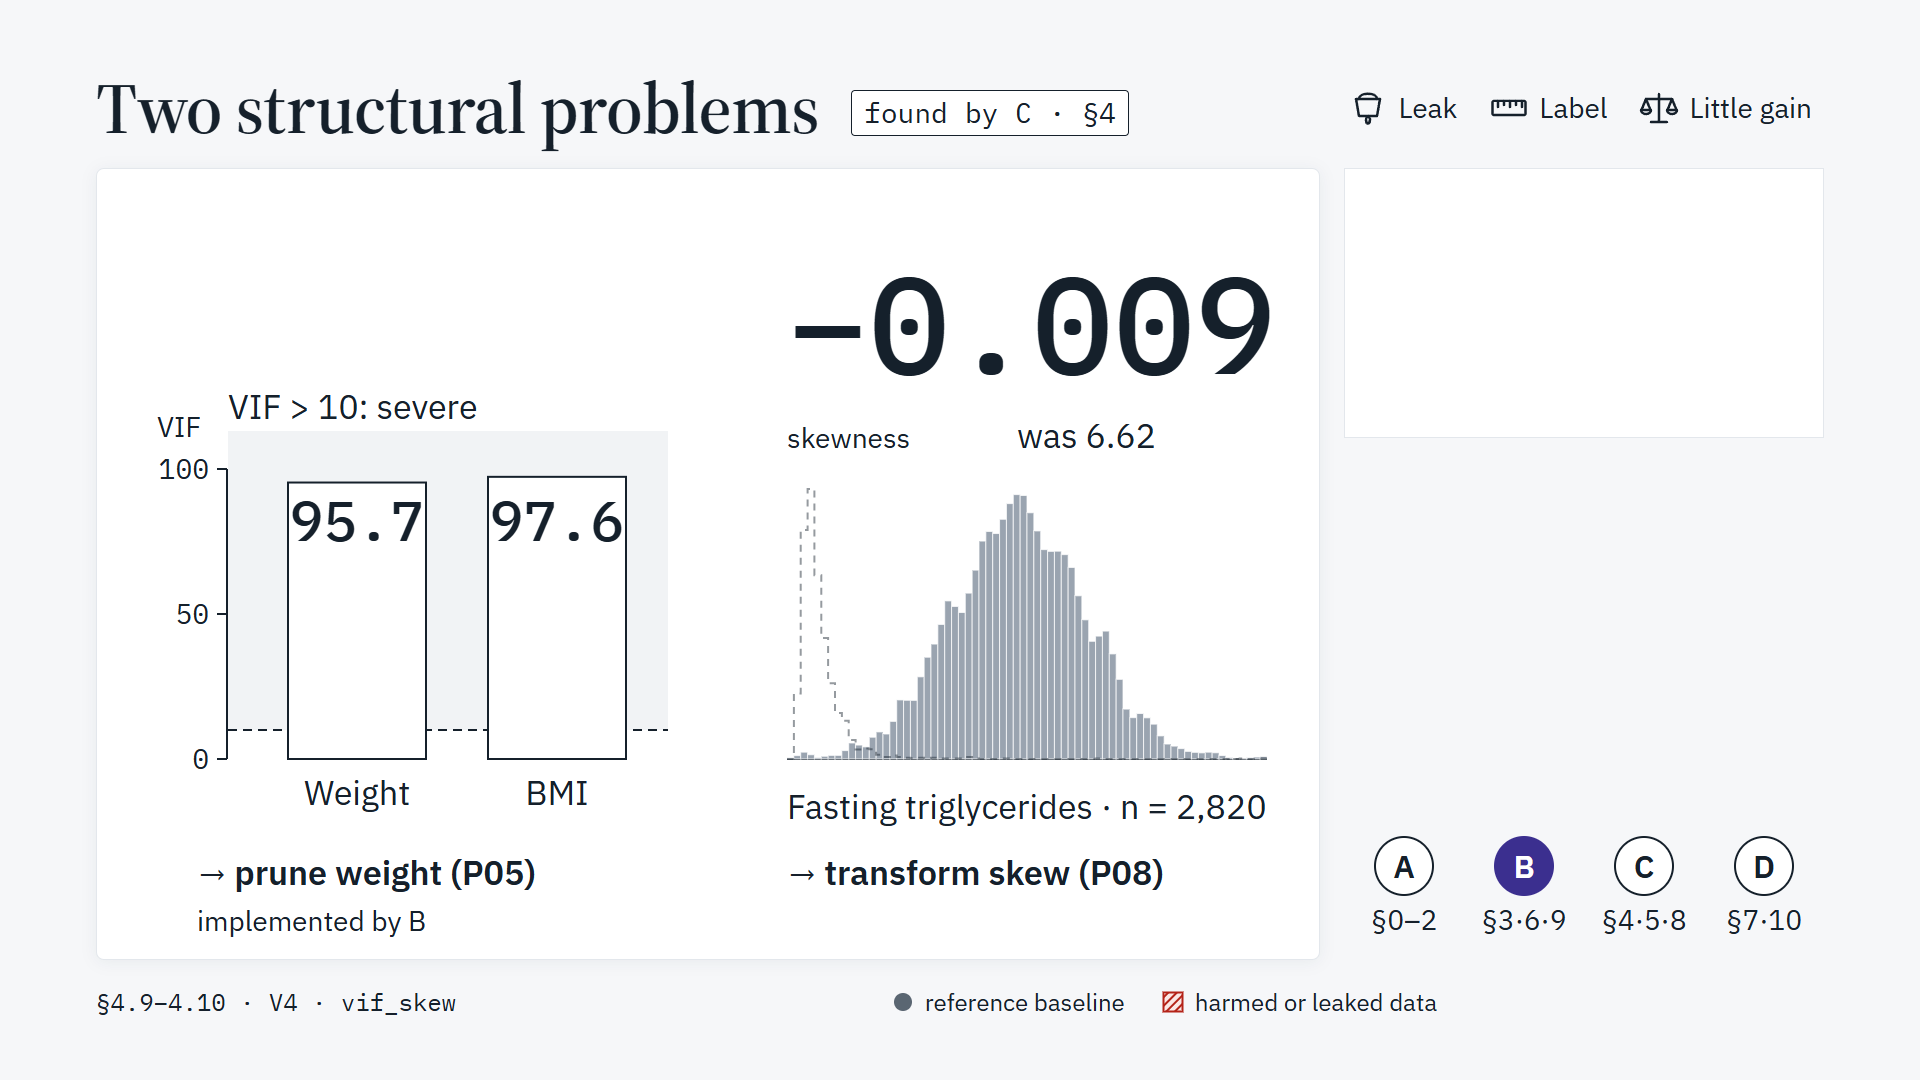
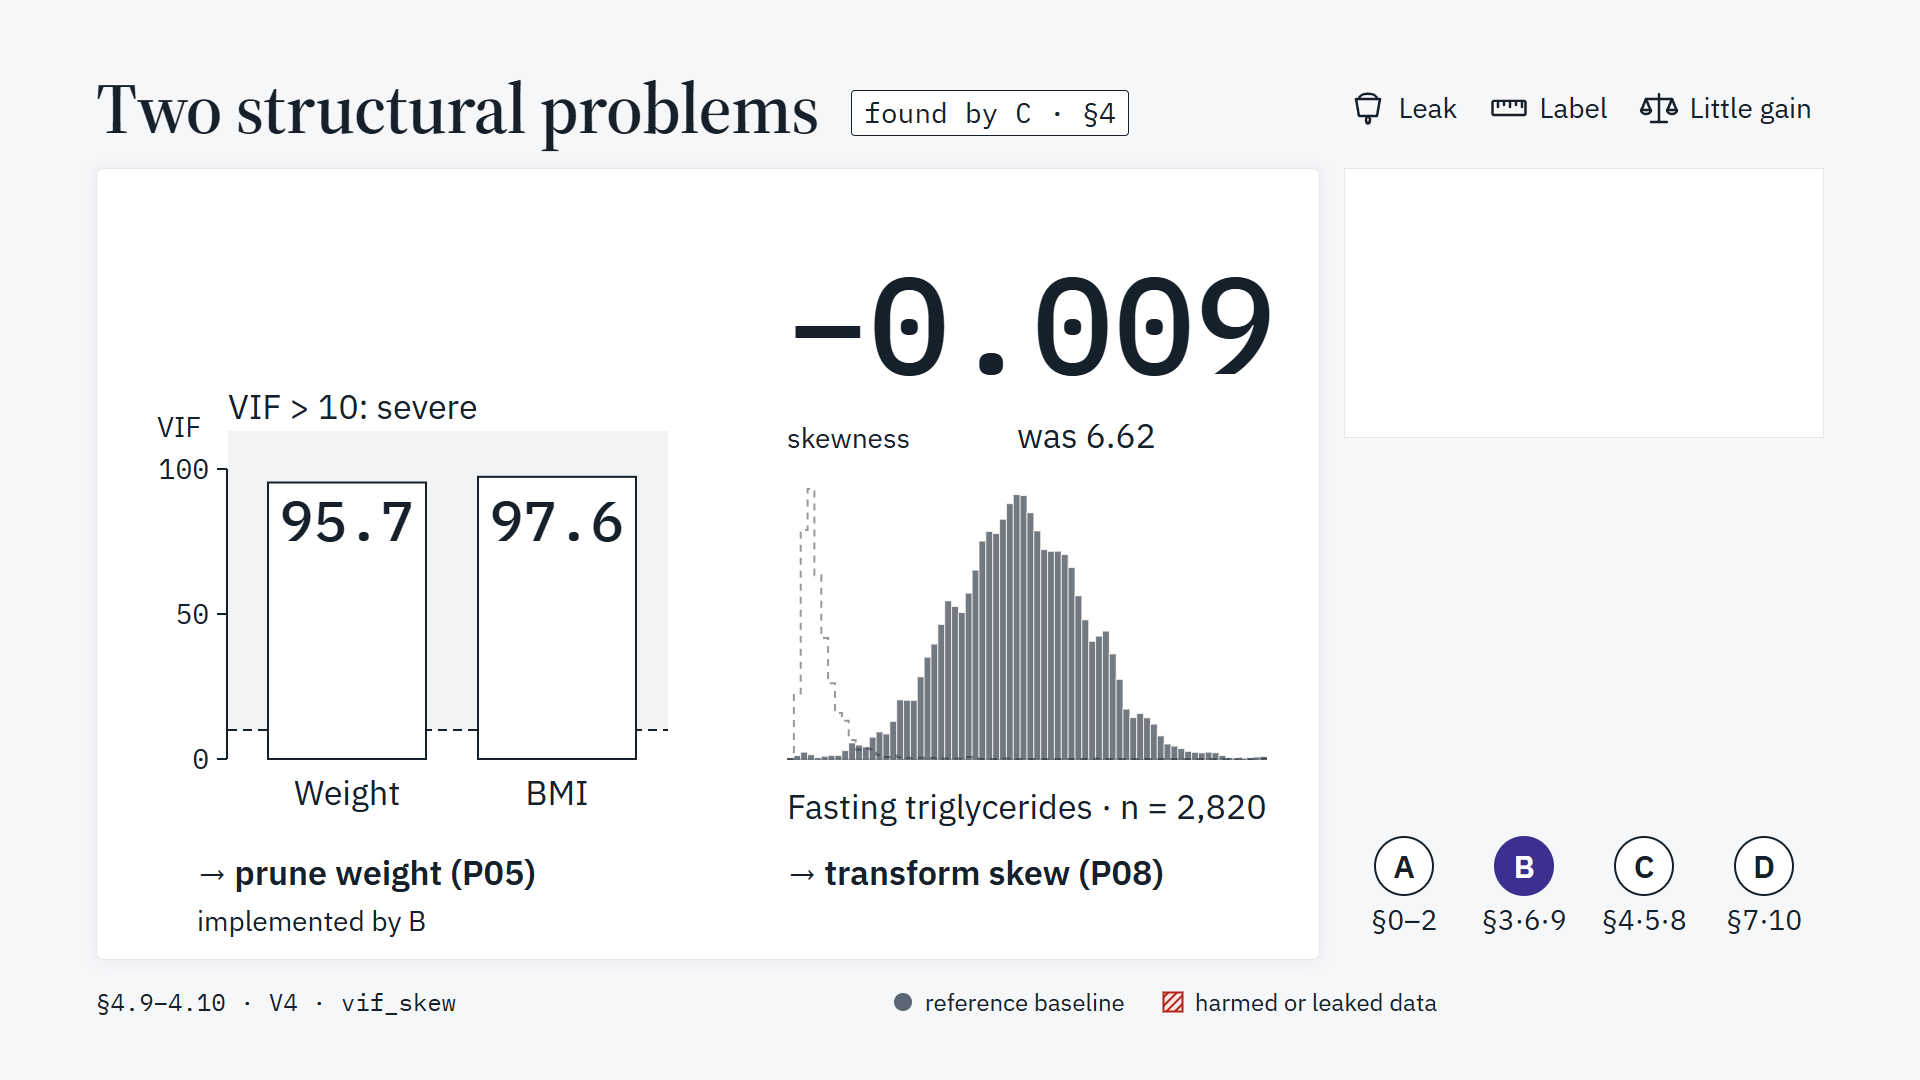
fix(video): scene 13 S lane lights P01-P13 (P14 tested separately); release scene 10 focus; scene 11 ink histogram and VIF padding; scene 16 'both' label readable

Changed region(s): [[0.4375, 0.4583, 0.625, 0.7028], [0.125, 0.4583, 0.2188, 0.5194], [0.1562, 0.7028, 0.2188, 0.7639]]

diff --git a/video/scenes/s13_three_versions.html b/video/scenes/s13_three_versions.html
@@ -14,7 +14,7 @@
    Speaker B. One relation: Naive (M0) uses every column, Minimal (M1) adds only the availability rule P03, Systematic (S) switches
    on all steps; the same simple model is fitted on all three.
    Numbers: video/data/arms.json (88 / 46 / 42 columns; groups.toggles = which steps each version switches on).
-   Arm S switches on P01-P13; P14 is a separate arm in S6 (arms.json notes), while the storyboard lights all fourteen cells. */
+   Arm S switches on P01-P13 only; P14 (WHtR) is a separate arm (S + WHtR), so its cell stays empty with the label "tested separately". */
 const K = Kit;
 
 // Cues in scene seconds at ~134 wpm from the §4 narration; replace with the marks on B's take.
@@ -25,10 +25,11 @@ const CUES = {
   m1: 5.4,         // "Minimal, M1: naive plus only"          grey lane
   m1p: 7.6,        // "the rule that bars post-diagnosis"     P03 lit
   m1n: 9.4,        // 46 columns
-  s: 10.4,         // "Systematic, S: all fourteen steps"     all cells teal
-  sn: 11.9,        // 42 columns
-  merge: 12.7,     // "One simple logistic regression for all three,"  connectors + box
-  lock: 15.0,      // "hypotheses locked first"               padlock
+  s: 10.0,         // "Systematic, S: all steps"              13 cells teal (P01-P13)
+  sn: 11.4,        // 42 columns
+  sep: 12.4,       // "but one, which we test separately."    P14 stays empty, muted label
+  merge: 14.2,     // "One simple logistic regression for all three,"  connectors + box
+  lock: 16.2,      // "hypotheses locked first"               padlock
 };
 
 K.createScene({
@@ -70,12 +71,17 @@ K.createScene({
       parts.cells = [];
       for (let i = 0; i < nCells; i++) {
         const id = 'P' + String(i + 1).padStart(2, '0');
-        const lit = ln.on.includes(id) || (ln.key === 'S' && id === 'P14');       // S: the storyboard lights all fourteen
+        const lit = ln.on.includes(id);                 // toggles from arms.json: S = P01-P13
         const r = K.svg('rect', { x: cx0 + i * step, y: y + 35, width: cell, height: cell, fill: '#fff', stroke: ln.style === 'leak' ? 'none' : col, 'stroke-width': 2.5 }, parts.body);
         parts.cells.push({ r, lit, id, x: cx0 + i * step, y: y + 34 });
       }
       if (ln.style === 'leak') parts.every = K.text(parts.body, { x: cx0 + 4, y: y + 56, text: 'every column', cls: 'kit-t-note' });
       if (ln.key === 'M1') { const c = parts.cells.find((q) => q.lit); parts.p03 = K.text(parts.body, { x: c.x + cell / 2, y: y + 28, text: c.id, anchor: 'middle', cls: 'kit-t-min' }); parts.p03.style.fontFamily = 'var(--font-mono)'; }
+      if (ln.key === 'S') {   // P14 stays unlit: muted label under the last cell
+        const c14 = parts.cells[nCells - 1];
+        parts.sep = K.text(parts.body, { x: c14.x + cell, y: c14.y + cell + 38, text: 'tested separately', anchor: 'end', cls: 'kit-t-min' });
+        parts.sep.style.fill = '#5A6672';
+      }
       parts.count = K.text(g, { x: cx0 + 14 * step + 20, y: y + 56, text: K.disp(data, ln.n) + ' columns', cls: 'kit-t-note', weight: 600 });
       // connector to the shared box
       parts.conn = K.svg('line', { x1: 914, x2: 936, y1: y + 46, y2: y + 46, stroke: K.C.ink, 'stroke-width': 3 }, g);
@@ -109,6 +115,7 @@ K.createScene({
       if (P.every) K.op(P.every, K.appear(t, d.show));
       if (P.p03) K.op(P.p03, K.appear(t, d.lit));
       K.op(P.count, K.appear(t, d.num));
+      if (P.sep) K.op(P.sep, K.appear(t, c.sep));
       K.op(P.conn, K.appear(t, c.merge));
     });
     K.op(S.bar, K.appear(t, c.merge)); K.op(S.box, K.appear(t, c.merge));

diff --git a/video/scenes/s10_outliers_kept.html b/video/scenes/s10_outliers_kept.html
@@ -25,6 +25,7 @@ const CUES = {
   flag: 8.0,         // "that flags 542 adults"                                      M3 on the flagged values, 542, one dot per value
   diabetic: 9.9,     // "and 519 of them have diabetes"                              M10: 519 dots turn solid
   del: 11.6,         // "Those are not errors. They are the disease."                "delete?" label
+  release: 13.4,     // body bars return to 100 %; the flagged bars keep their outline
   steps: 15.0,       // "We flagged them, checked them,"                              M12 dissolve into Flag -> Review -> Keep
   keep: 17.6,        // "and kept every one"                                          ink check on Keep
   title: 8.0,
@@ -57,7 +58,7 @@ K.createScene({
     S.bars = K.svg('g', {}, fig);
     S.rects = H.counts.map((cn, i) => {
       const mid = (H.edges[i] + H.edges[i + 1]) / 2, flag = mid > fence.value || mid < lowF;
-      const r = K.svg('rect', { fill: '#9AA4B0', stroke: '#fff', 'stroke-width': 1 }, S.bars);
+      const r = K.svg('rect', { fill: K.C.ink, 'fill-opacity': 0.55, stroke: '#fff', 'stroke-width': 1 }, S.bars);
       return { r, i, cn, flag, x0: x(H.edges[i]), w: x(H.edges[i + 1]) - x(H.edges[i]) };
     });
     // 2 px ink outline on the flagged bars (drawn as their own layer so the focus can fade it in)
@@ -108,7 +109,7 @@ K.createScene({
     const S = ctx.S, c = ctx.cues, y = S.y;
     S.axis.update(K.M1_axisDraw(t, c.axis, { nTicks: 7 }));
     const grow = K.M2_barGrow(t, c.bars);
-    const f = K.M3_focus(t, c.flag);
+    const f = K.M3_focus(t, c.flag, c.release), fo = K.M3_focus(t, c.flag);   // fo: the outline never releases
     S.rects.forEach((b) => {
       const h = (y(0) - y(b.cn)) * grow;
       b.r.setAttribute('x', b.x0 + 0.5); b.r.setAttribute('width', Math.max(0, b.w - 1)); b.r.setAttribute('y', y(0) - h); b.r.setAttribute('height', h);
@@ -116,7 +117,7 @@ K.createScene({
       if (b.o) { b.o.setAttribute('x', b.x0 + 0.5); b.o.setAttribute('width', Math.max(0, b.w - 1)); b.o.setAttribute('y', y(0) - h - 1); b.o.setAttribute('height', h + 1); }
     });
     K.op(S.bars, grow > 0 ? 1 : 0);
-    K.op(S.flagOutline, f.outline);
+    K.op(S.flagOutline, fo.outline);
     // fence + arrow (M11), lower fence appears with it
     K.op(S.fences, K.appear(t, c.fence));
     S.arrow.update(K.M11_arrow(t, c.fence + 0.2));

diff --git a/video/scenes/s11_redundancy_skew.html b/video/scenes/s11_redundancy_skew.html
@@ -59,11 +59,11 @@ K.createScene({
     K.svg('rect', { x: 131, y: 262, width: 440, height: y(thr) - 262, fill: K.C.band }, S.band);
     K.svg('line', { x1: 131, x2: 571, y1: y(thr), y2: y(thr), stroke: K.C.ink, 'stroke-width': 2, 'stroke-dasharray': '9 6' }, S.band);
     K.text(S.band, { x: 131, y: 250, text: 'VIF > ' + K.disp(data, 'vif_threshold') + ': severe', cls: 'kit-t-note' });
-    S.vif = [['vif_weight', 190, 'Weight'], ['vif_bmi', 390, 'BMI']].map(([id, bx, name]) => {
+    S.vif = [['vif_weight', 170, 'Weight'], ['vif_bmi', 380, 'BMI']].map(([id, bx, name]) => {
       const it = K.item(data, id);
-      const bar = K.bar(fig, { scale: y, base: 0, x: bx, width: 140, styles: ['ink'] });
-      const lab = K.text(fig, { x: bx + 70, y: 636, text: name, anchor: 'middle', cls: 'kit-t-note' });
-      const num = K.text(fig, { x: bx + 70, y: 372, text: it.display, anchor: 'middle', cls: 'kit-t-second' });
+      const bar = K.bar(fig, { scale: y, base: 0, x: bx, width: 160, styles: ['ink'] });
+      const lab = K.text(fig, { x: bx + 80, y: 636, text: name, anchor: 'middle', cls: 'kit-t-note' });
+      const num = K.text(fig, { x: bx + 80, y: 372, text: it.display, anchor: 'middle', cls: 'kit-t-second' });
       return { it, bar, num, lab };
     });
 
@@ -81,7 +81,7 @@ K.createScene({
     S.N = N; S.rawH = rawH; S.yjH = yjH; S.box = { x0: bx0, w: bw, y: by, h: bh };
     S.hist = K.svg('g', {}, fig);
     K.svg('line', { x1: bx0, x2: bx0 + bw, y1: by, y2: by, stroke: K.C.ink, 'stroke-width': 2 }, S.hist);
-    S.hrects = rawH.map(() => K.svg('rect', { fill: FILL, stroke: '#fff', 'stroke-width': 0.6 }, S.hist));
+    S.hrects = rawH.map(() => K.svg('rect', { fill: K.C.ink, 'fill-opacity': 0.6, stroke: '#fff', 'stroke-width': 0.6 }, S.hist));
     // dashed ghost of the raw shape (stays in the last frame so the contrast survives)
     const gp = rawH.map((h, i) => `${i ? 'L' : 'M'}${(bx0 + (i / N) * bw).toFixed(1)} ${(by - h * bh).toFixed(1)} L${(bx0 + ((i + 1) / N) * bw).toFixed(1)} ${(by - h * bh).toFixed(1)}`).join(' ');
     S.ghost = K.svg('path', { d: gp, fill: 'none', stroke: K.C.ink, 'stroke-width': 2, 'stroke-dasharray': '7 6' }, fig);

diff --git a/video/scenes/s16_label_trap.html b/video/scenes/s16_label_trap.html
@@ -92,7 +92,8 @@ Kit.createScene({
     const stack = (g, x, anchor, l1, l2) => { K.text(g, { x, y: V.y - V.rL - 58, text: l1, cls: 'kit-t-min', anchor }); K.text(g, { x, y: V.y - V.rL - 20, text: l2, cls: 'kit-t-min', anchor, weight: 600 }); };
     stack(S.labL, V.bbox.x0 - 10, 'start', 'Told by a doctor', nSelf.display);
     stack(S.labR, V.bbox.x1 + 10, 'end', 'HbA1c ≥ 6.5 %', nA1c.display);
-    S.labBoth = halo(K.text(S.labs, { x: V.centres.both[0], y: V.centres.both[1] + 10, text: 'both', anchor: 'middle', cls: 'kit-t-min', weight: 600 }));
+    S.labBoth = halo(K.text(S.labs, { x: V.centres.both[0], y: V.centres.both[1] + 10, text: 'both', anchor: 'middle', cls: 'kit-t-note', weight: 600 }));
+    S.labBoth.style.strokeWidth = '12px';
     // ---------- 3 callout 250 of 819, ruler icon (the Label mark)
     S.c250 = K.svg('g', {}, fig);
     S.n250 = K.callout(S.c250, { x: 48, y: 700, size: 'main', label: 'of ' + nSelf.display + ' self-reported' });
@@ -133,7 +134,7 @@ Kit.createScene({
     const rest = f.others;
     K.op(S.gBoth, dotsIn * rest); K.op(S.gA1c, dotsIn * rest);
     K.op(S.gSelf, dotsIn);
-    K.op(S.labL, dotsIn); K.op(S.labR, dotsIn * rest); K.op(S.labBoth, dotsIn * rest);
+    K.op(S.labL, dotsIn); K.op(S.labR, dotsIn * rest); K.op(S.labBoth, dotsIn);
     S.circL.style.opacity = cm > 0 ? (1 - 0.75 * f.outline) : 0; S.circR.style.opacity = cm > 0 ? (1 - 0.75 * f.outline) : 0;
     K.op(S.outline, f.outline);
     K.op(S.c250, K.appear(t, c.focus));

diff --git a/video/scenes/s12_fourteen_steps.html b/video/scenes/s12_fourteen_steps.html
@@ -89,7 +89,7 @@ K.createScene({
     // Systematic (S) label and the lock label
     S.sLab = K.svg('g', {}, fig);
     K.svg('rect', { x: x0, y: 196, width: 22, height: 22, fill: K.C.systematic }, S.sLab);
-    K.text(S.sLab, { x: x0 + 36, y: 217, text: 'Systematic (S) = all ' + nSteps + ' steps', cls: 'kit-t-note', weight: 600 });
+    K.text(S.sLab, { x: x0 + 36, y: 217, text: 'Preparation steps', cls: 'kit-t-note', weight: 600 });
     S.lock = K.svg('g', {}, fig);
     const lx = x0, ly = 126;
     K.svg('rect', { x: lx, y: ly + 12, width: 30, height: 24, rx: 3, fill: K.C.ink }, S.lock);
